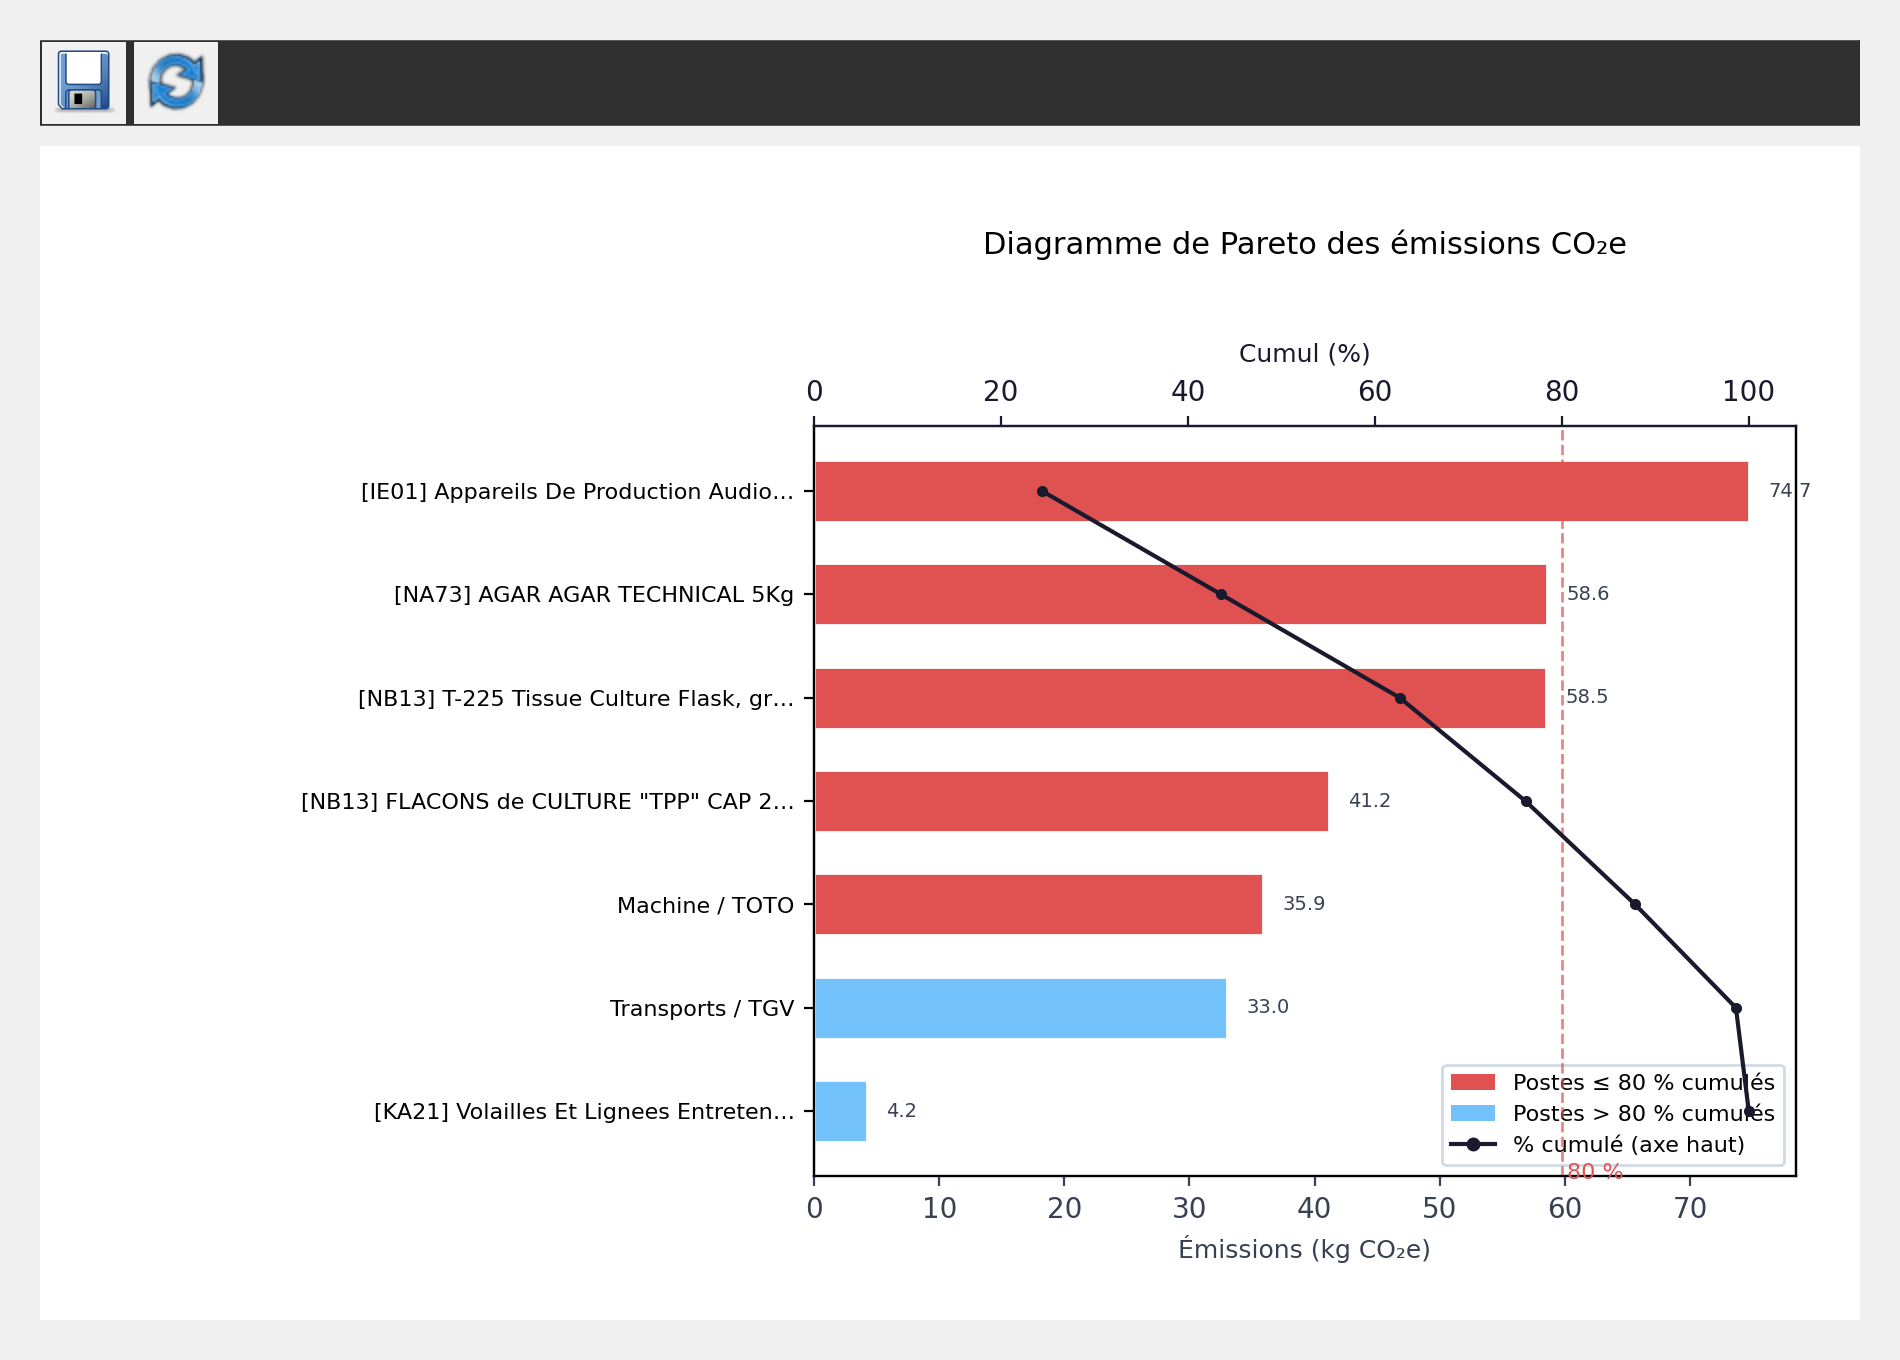
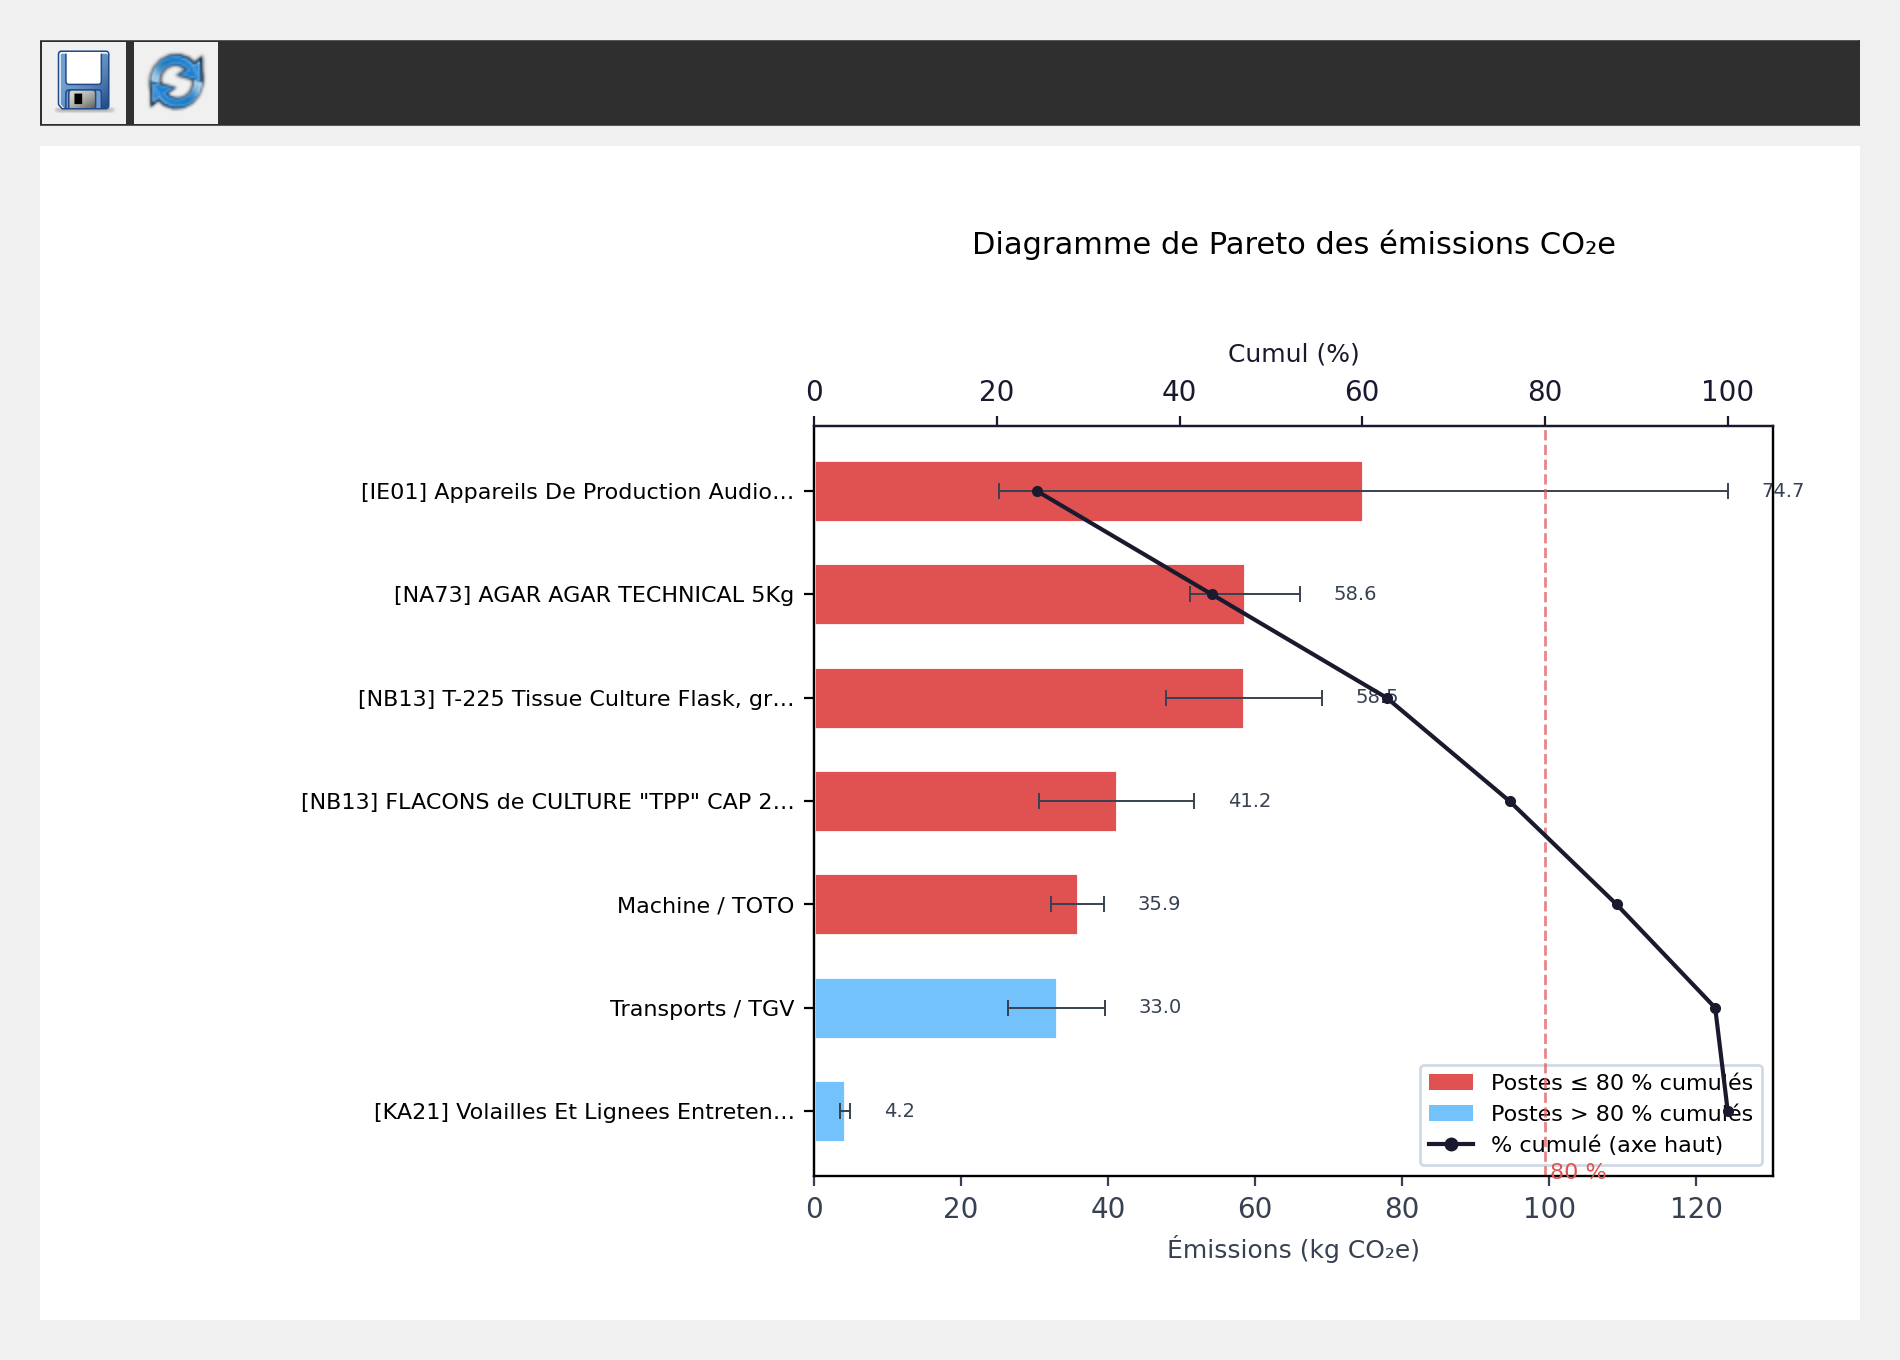
2026 05 12 Commit pour release

diff --git a/ui/charts/pareto_chart.py b/ui/charts/pareto_chart.py
@@ -137,12 +137,16 @@ class ParetoChartWindow(QDialog):
         self.figure.clear()
 
         aggregated = {}
+        aggregated_err_sq = {}
         for data in iter_history_data(self.main_window.history_list):
             label = self._build_label(data)
             ep = float(data.get('emissions_price', 0.0) or 0.0)
+            err = float(data.get('emissions_price_error', 0.0) or 0.0)
             aggregated[label] = aggregated.get(label, 0.0) + ep
+            aggregated_err_sq[label] = aggregated_err_sq.get(label, 0.0) + err ** 2
 
         aggregated = {k: v for k, v in aggregated.items() if v > 0}
+        aggregated_errors = {k: np.sqrt(aggregated_err_sq[k]) for k in aggregated}
 
         if not aggregated:
             ax = self.figure.add_subplot(111)
@@ -151,13 +155,14 @@ class ParetoChartWindow(QDialog):
             self.canvas.draw()
             return
 
-        self._plot(aggregated)
+        self._plot(aggregated, aggregated_errors)
 
     # ------------------------------------------------------------------
-    def _plot(self, aggregated):
+    def _plot(self, aggregated, aggregated_errors):
         sorted_items = sorted(aggregated.items(), key=lambda x: x[1], reverse=True)
         labels = [it[0] for it in sorted_items]
         values = np.array([it[1] for it in sorted_items])
+        errors = np.array([aggregated_errors.get(lbl, 0.0) for lbl in labels])
 
         total = values.sum()
         cumulative_pct = np.cumsum(values) / total * 100
@@ -173,11 +178,16 @@ class ParetoChartWindow(QDialog):
 
         # ── Barres ──────────────────────────────────────────────────────
         bars = ax1.barh(y_pos, values, color=colors, edgecolor='white', height=0.6)
+        ax1.errorbar(
+            values, y_pos,
+            xerr=errors,
+            fmt='none', ecolor='#374151', capsize=3, capthick=0.7, lw=0.7,
+        )
 
-        for bar, val in zip(bars, values):
+        for bar, val, err in zip(bars, values, errors):
             if val > 0:
                 ax1.text(
-                    bar.get_width() + total * 0.005,
+                    bar.get_width() + err + total * 0.015,
                     bar.get_y() + bar.get_height() / 2,
                     f"{val:.1f}",
                     va='center', ha='left', fontsize=7, color='#374151'

diff --git a/ui/charts/transport_top_chart.py b/ui/charts/transport_top_chart.py
@@ -89,6 +89,7 @@ class TransportTopChartWindow(QDialog):
 
         y = np.arange(len(records))
         values = np.array([record["transport_emissions"] for record in records])
+        errors = np.array([record.get("transport_error", 0.0) for record in records])
         max_val = max(float(values.max()), 1.0)
         transport_total = max(summary["transport_total"], 1e-12)
 
@@ -98,15 +99,20 @@ class TransportTopChartWindow(QDialog):
             color=[origin_color(record["origin"]) for record in records],
             edgecolor='white',
         )
+        ax.errorbar(
+            values, y,
+            xerr=errors,
+            fmt='none', ecolor=COLOR_ERR, capsize=4, capthick=0.8, lw=0.8,
+        )
 
         ax.set_yticks(y)
         ax.set_yticklabels([record["label"] for record in records], fontsize=8)
         ax.invert_yaxis()
 
-        for bar, record, value in zip(bars, records, values):
+        for bar, record, value, err in zip(bars, records, values, errors):
             pct = value / transport_total * 100.0
             ax.text(
-                value + max_val * 0.012,
+                value + err + max_val * 0.02,
                 bar.get_y() + bar.get_height() / 2,
                 f"{value:.1f} kg ({pct:.0f} %)",
                 va='center',

diff --git a/ui/charts/pie_chart.py b/ui/charts/pie_chart.py
@@ -234,8 +234,8 @@ class PieChartWindow(QDialog):
         # Couleur de fond du graphique
         pie_ax.set_facecolor('black')
 
-        # Ajustement des marges
-        self.figure.tight_layout()
+        # Ajustement des marges (rect réserve de l'espace pour suptitle)
+        self.figure.tight_layout(rect=[0, 0, 1, 0.93])
 
         # Mise à jour de l'affichage sur le canvas
         self.canvas.draw()
